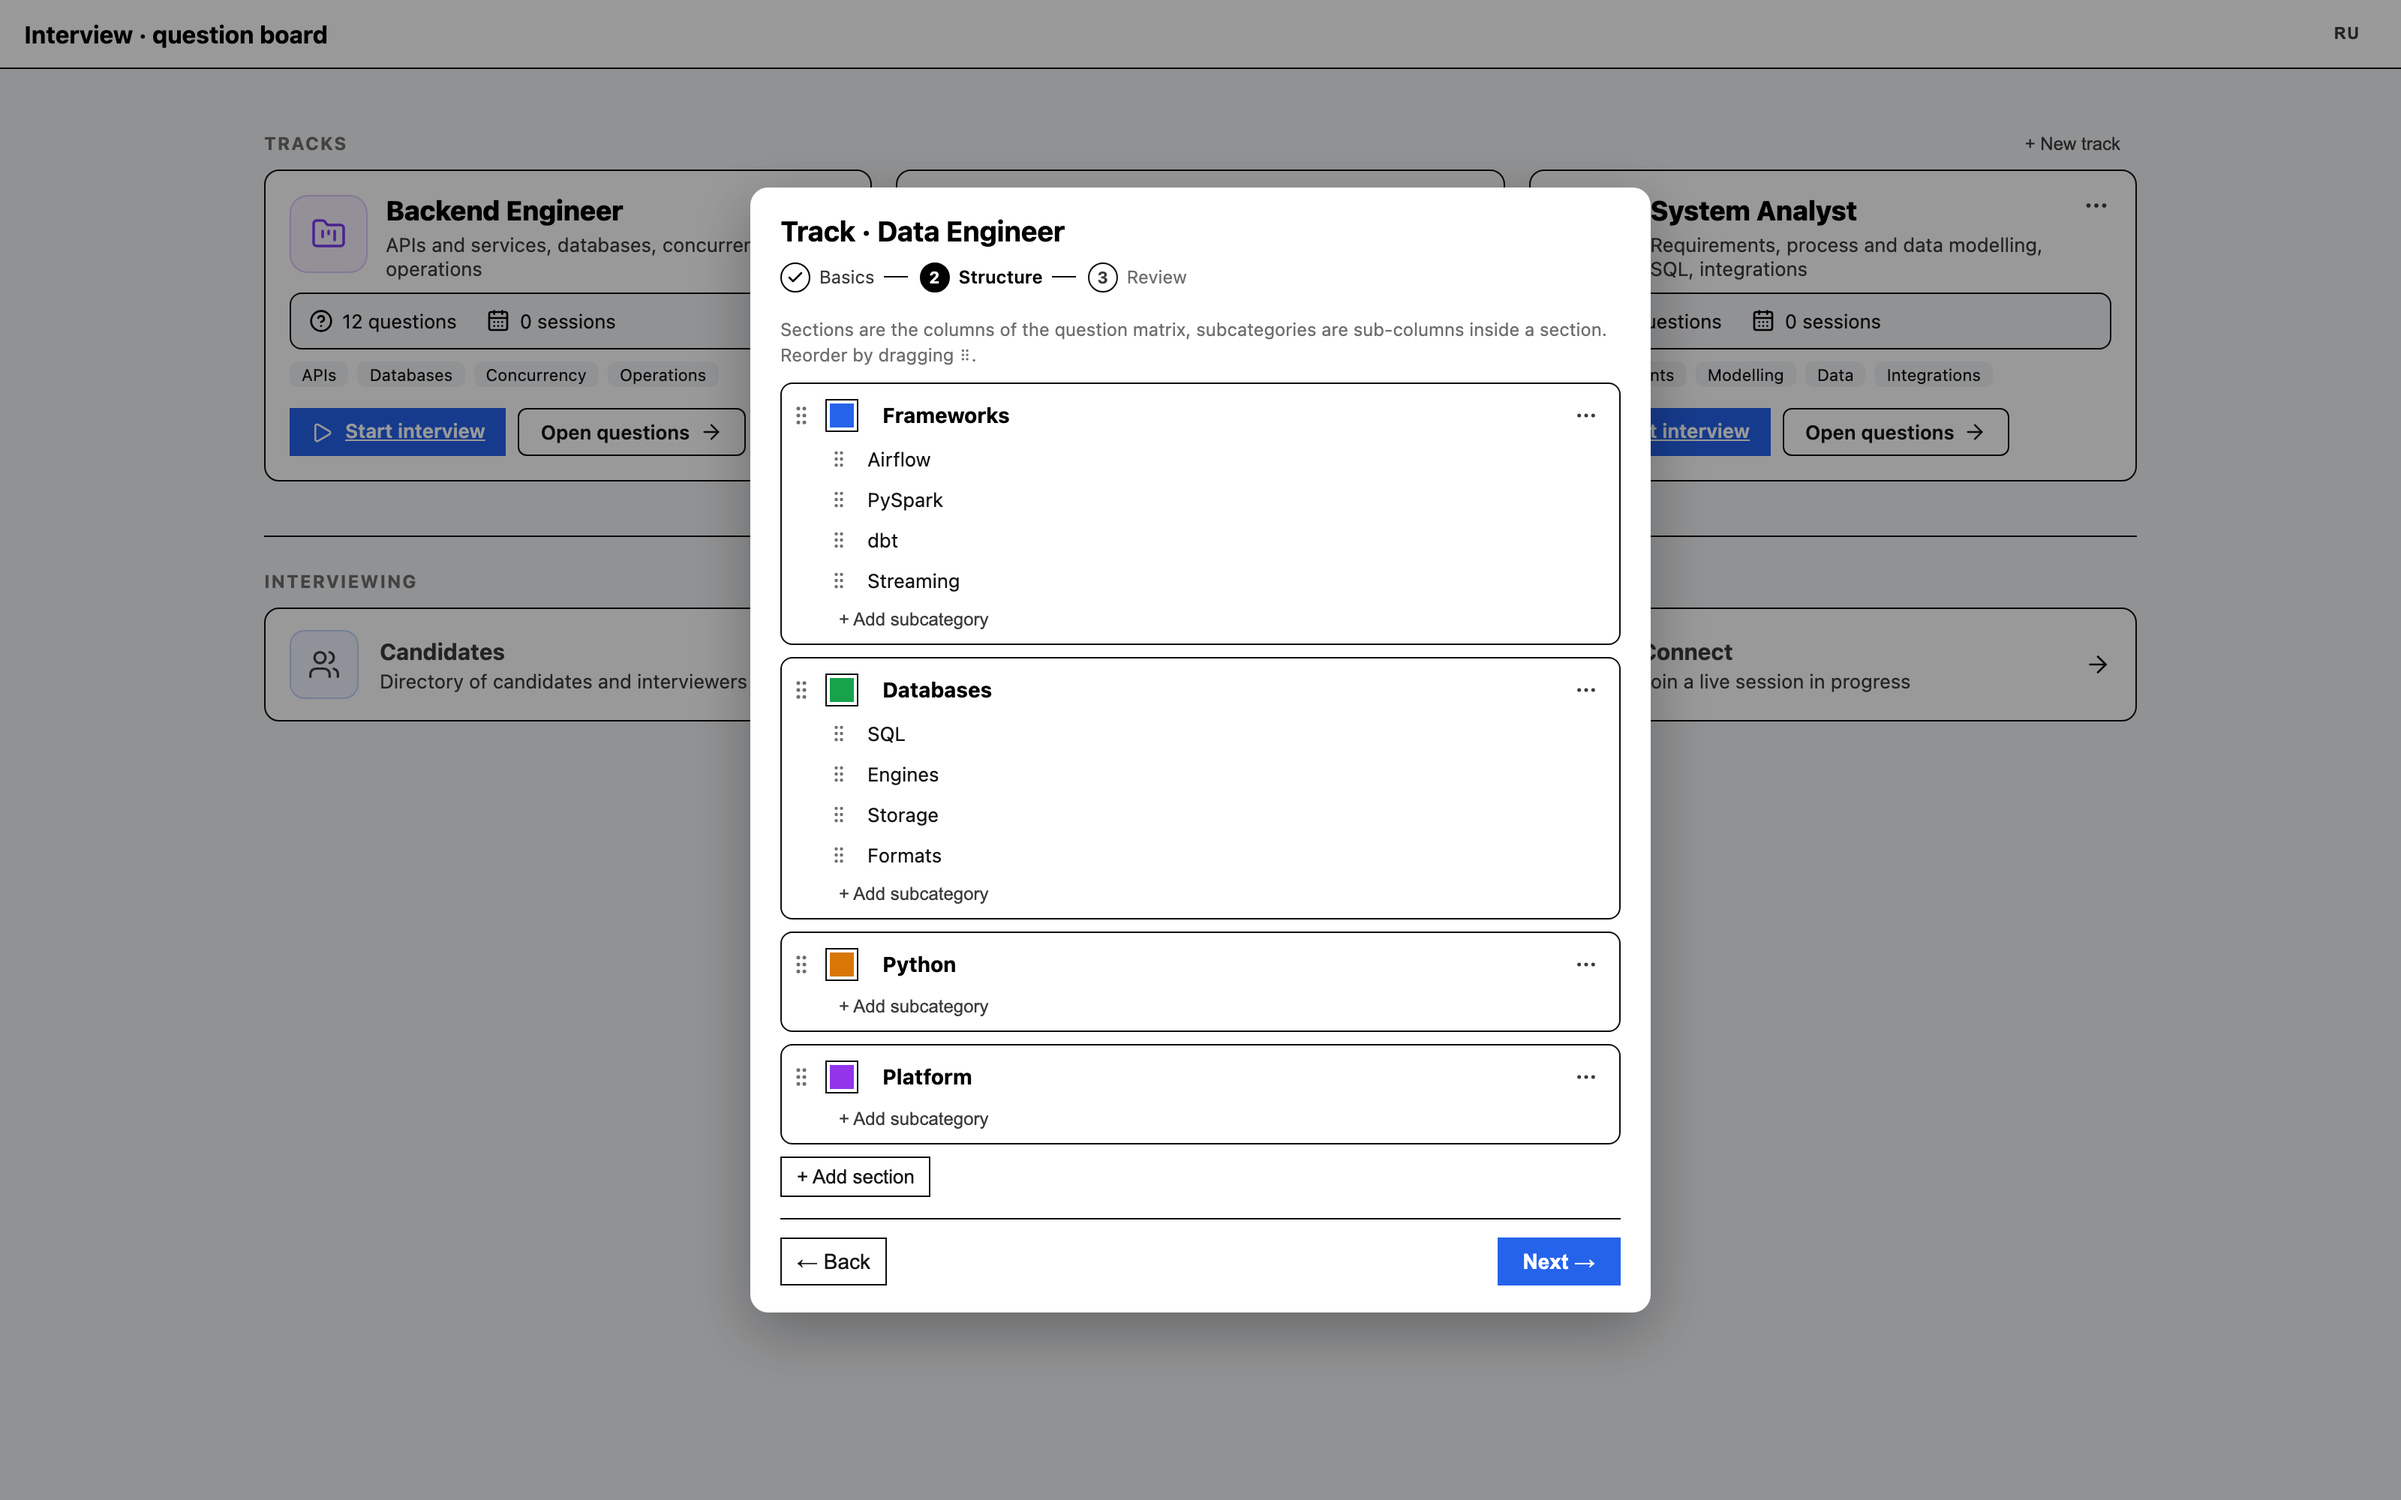
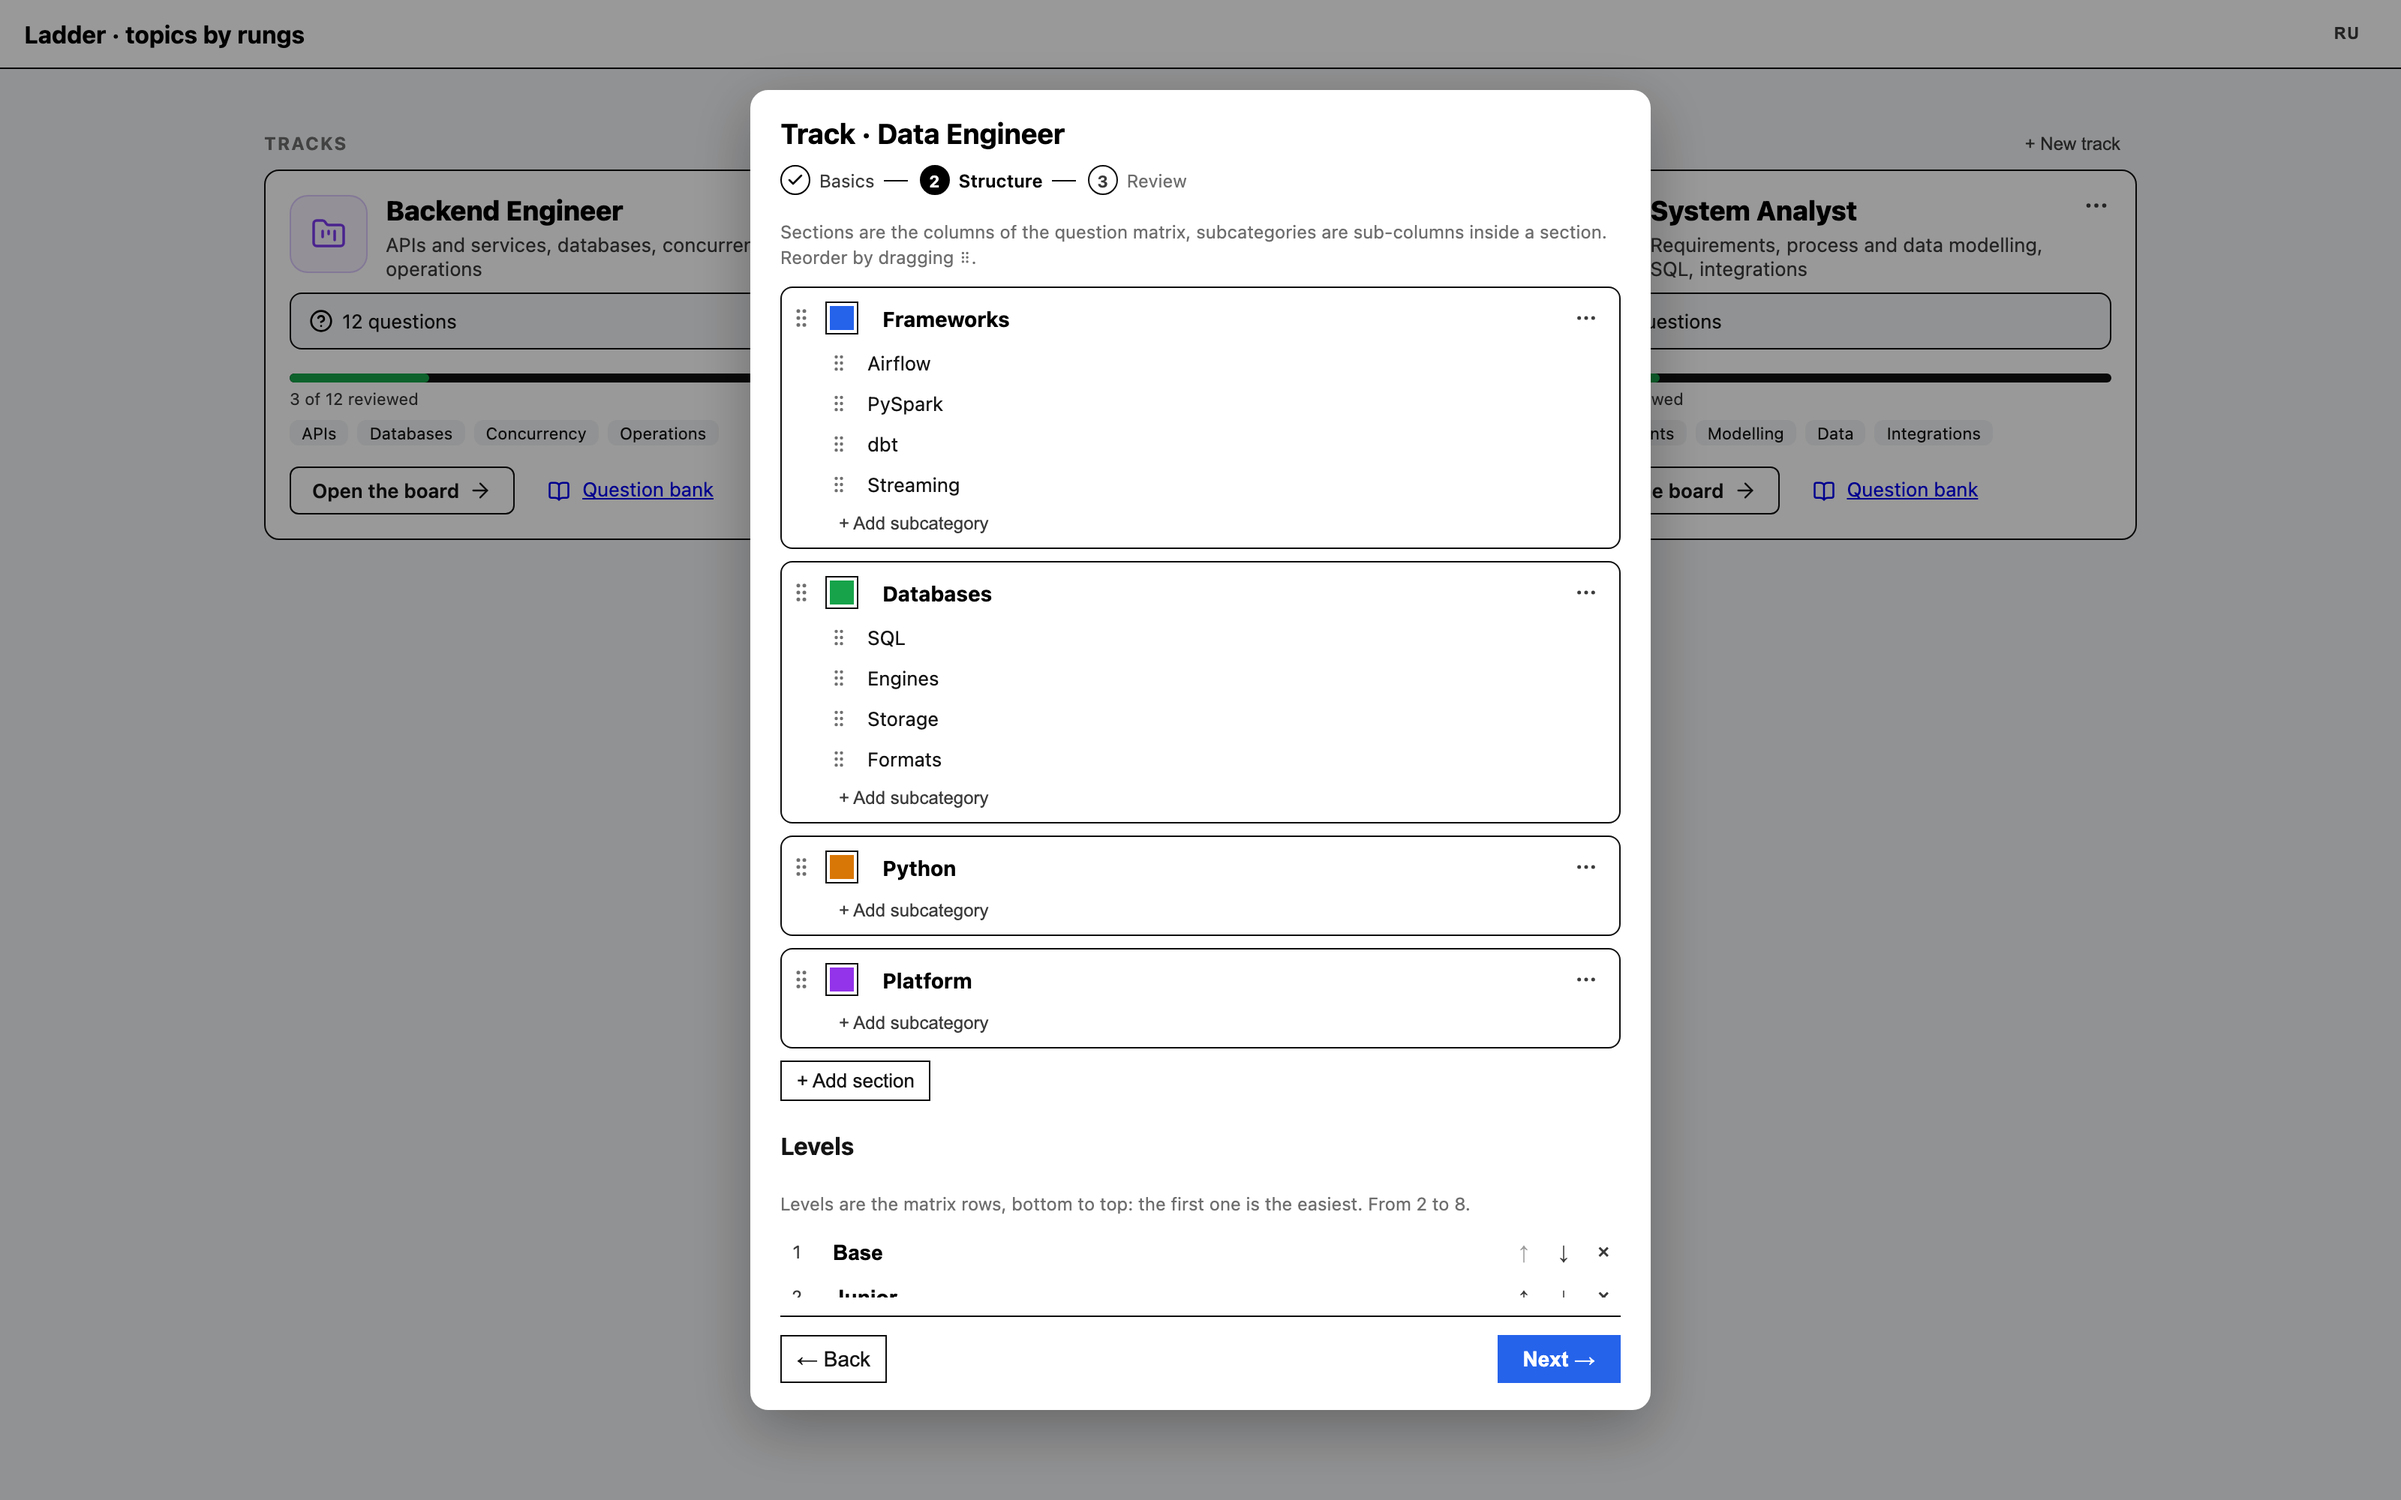
docs(shots): скриншоты README вокруг чек-листа; shots.mjs без режима интервью

diff --git a/README.md b/README.md
@@ -23,17 +23,14 @@ sections, and the two things you actually do — open the board or open the ques
 
 |                                                                                                                                                                                                                                                     |                                                                                                                                                                                                                                          |
 |-------------------------------------------------------------------------------------------------------------------------------------------------------------------------------------------------------------------------------------------------------|----------------------------------------------------------------------------------------------------------------------------------------------------------------------------------------------------------------------------------------|
-| **The matrix.** A column per section, cards ranked by the track's own levels; filters and search dim everything that does not match.<br><br>[![Question matrix](docs/screenshots/03-board.png)](docs/screenshots/03-board.png)                          | **The checklist from the keyboard.** `1 / 2 / 3` mark the current card known / review / unknown and move on, `n` jumps to the next unreviewed one; the HUD keeps the current card and an optional timer.<br><br>[![Checklist](docs/screenshots/04-scoring.png)](docs/screenshots/04-scoring.png) |
+| **The matrix.** A column per section, sub-columns inside it, cards ranked by the track's own levels; the filter panel dims every card that does not match the tag, level or search.<br><br>[![Question matrix](docs/screenshots/03-board.png)](docs/screenshots/03-board.png)                          | **The checklist from the keyboard.** `1 / 2 / 3` mark the current card known / review / unknown and move on, `n` jumps to the next unreviewed one; the HUD keeps the current card, its level and the running count, a dot on every card shows its status.<br><br>[![Checklist](docs/screenshots/04-checklist.png)](docs/screenshots/04-checklist.png) |
 | **Full text next to the board.** A non-modal drawer: question, reference answer with syntax highlighting and the three status buttons, while the board stays interactive.<br><br>[![Answer drawer](docs/screenshots/05-drawer.png)](docs/screenshots/05-drawer.png) | **Hands-on tasks.** Besides questions the bank holds tasks: a statement, starter code, a reference solution and criteria to check yourself against.<br><br>[![Task](docs/screenshots/06-task.png)](docs/screenshots/06-task.png)          |
-| **Question bank.** Full-text search and filters over the whole bank; questions are edited and added straight from the UI, and "Export" saves it as one self-contained HTML file.<br><br>[![Question bank](docs/screenshots/07-bank.png)](docs/screenshots/07-bank.png) | **Track editor.** Sections and sub-columns are data: rename, reorder by drag and drop, pick a colour from a fixed palette, preview the structure before saving.<br><br>[![Track editor](docs/screenshots/10-structure.png)](docs/screenshots/10-structure.png) |
+| **Question bank.** Full-text search and filters over the whole bank, any row expands to the full question and answer; questions are added and edited straight from the UI, and "Download HTML" saves the bank as one self-contained file.<br><br>[![Question bank](docs/screenshots/07-bank.png)](docs/screenshots/07-bank.png) | **Track editor.** Sections, sub-columns and levels are data: rename, reorder by drag and drop, pick a colour from a fixed palette, preview the structure before saving.<br><br>[![Track editor](docs/screenshots/10-structure.png)](docs/screenshots/10-structure.png) |
 
 Dark theme is a toggle in the settings panel and is remembered per browser; the system preference
 is the default.
 
 ![Dark theme](docs/screenshots/11-board-dark.png)
-
-> Screenshots still show the previous UI in places: `frontend/shots.mjs` drove them through the
-> interview mode that has since been removed, so it needs a rewrite before `npm run shots` works again.
 
 ## Quick start
 

diff --git a/docs/screenshots/README.md b/docs/screenshots/README.md
@@ -1,6 +1,4 @@
 Screenshots are produced by `frontend/shots.mjs` (`npm run shots`) against the English demo
-content in `demo/content-en`.
-
-**Out of date.** `shots.mjs` still drives the interview mode (sessions, scores, verdict) that was
-removed from the product, so it fails as is and the remaining images predate the removal. Rewrite
-it around the checklist before regenerating.
+content in `demo/content-en`, on a seeded checklist: about 60% of the track's cards carry a
+known / review / unknown status, picked deterministically from the card id so reruns give the
+same frames. See the header of `shots.mjs` for the two commands.
